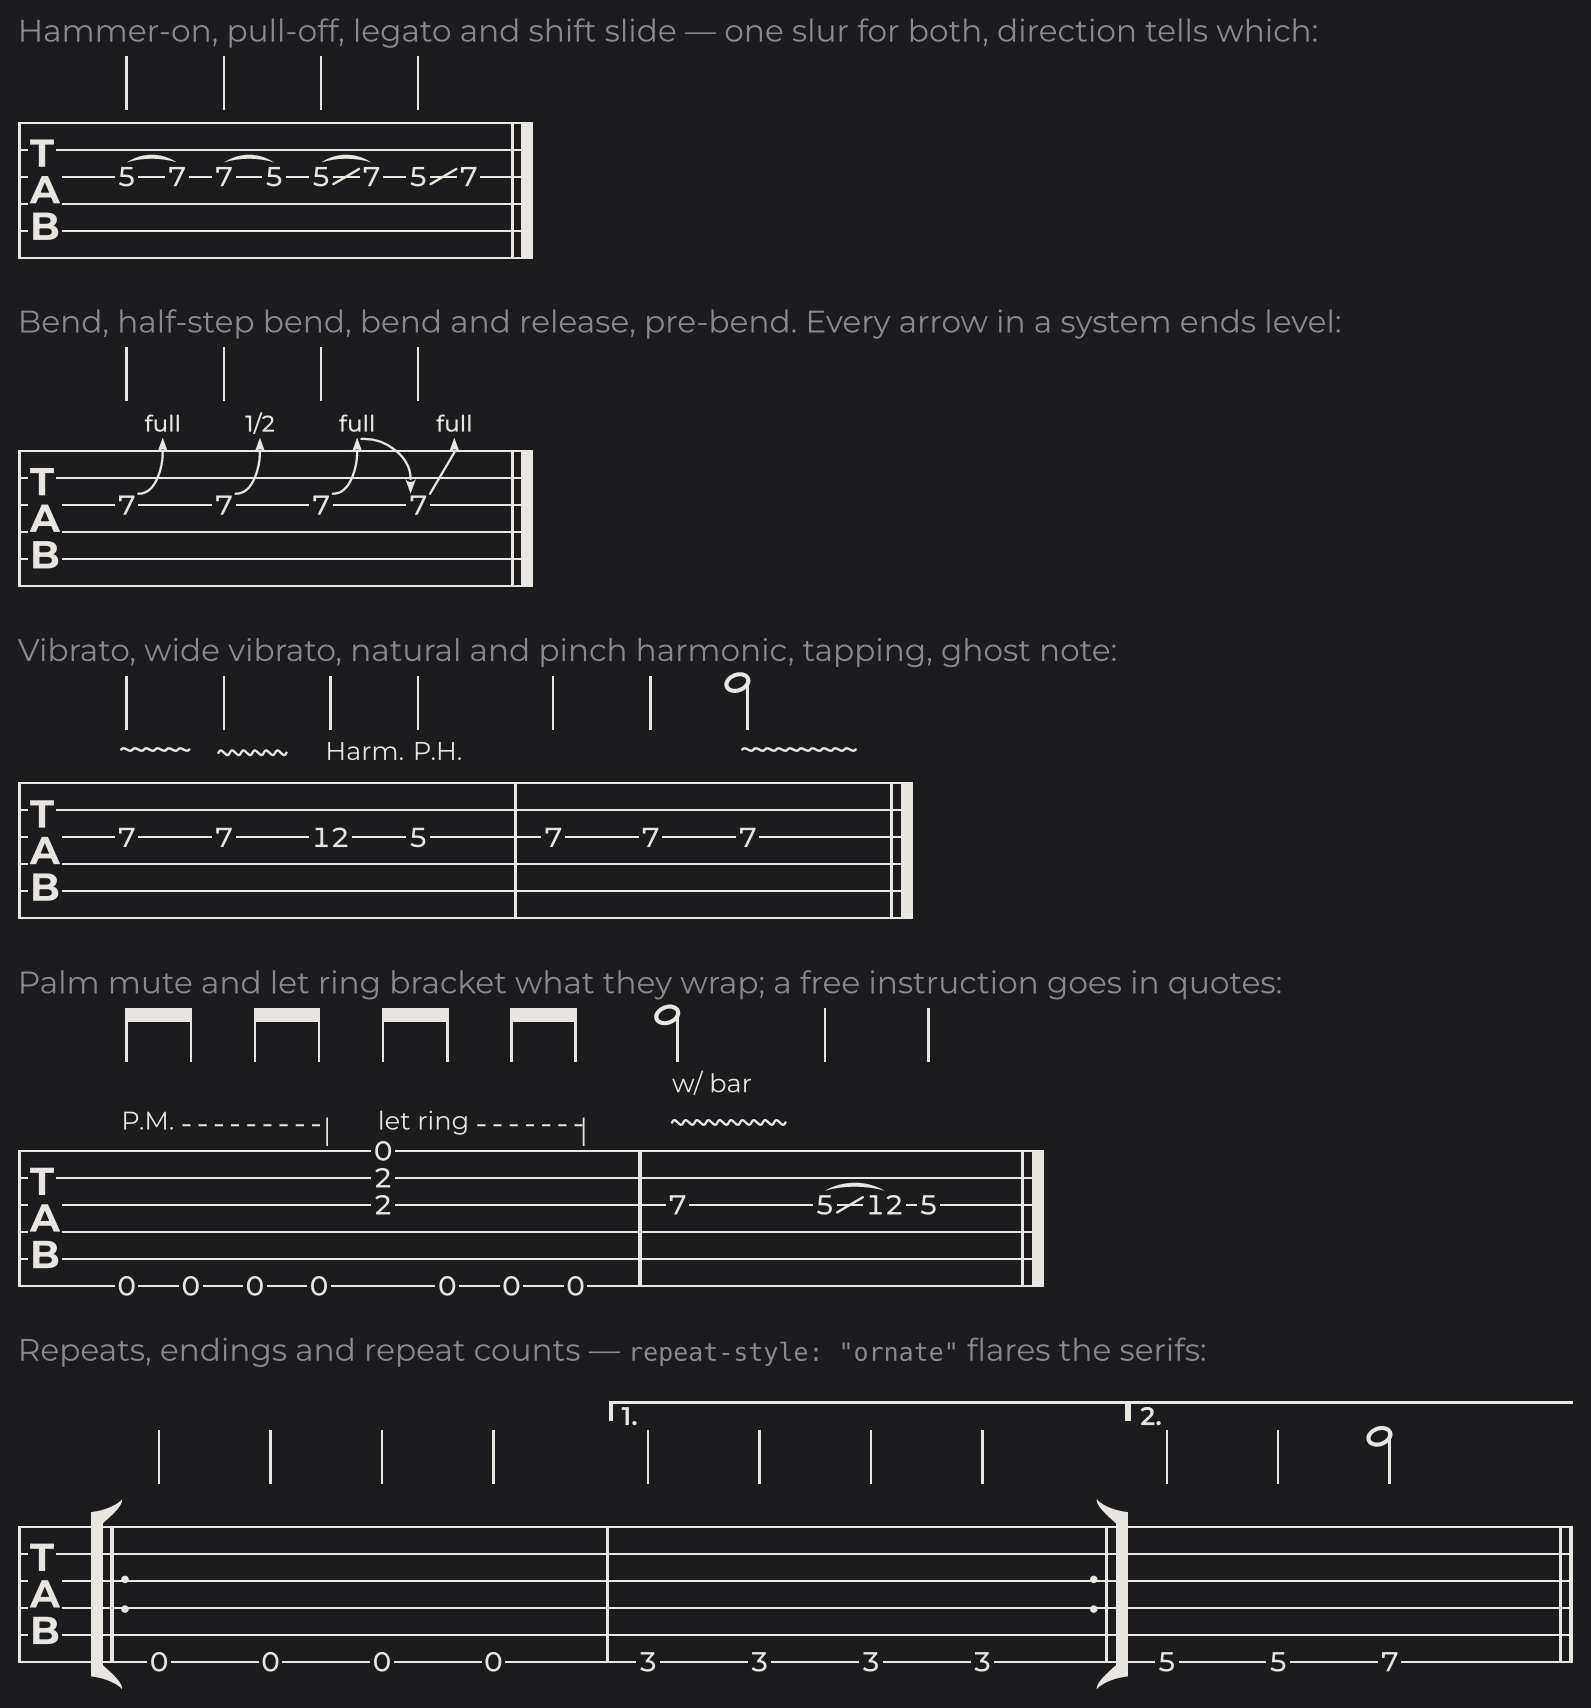
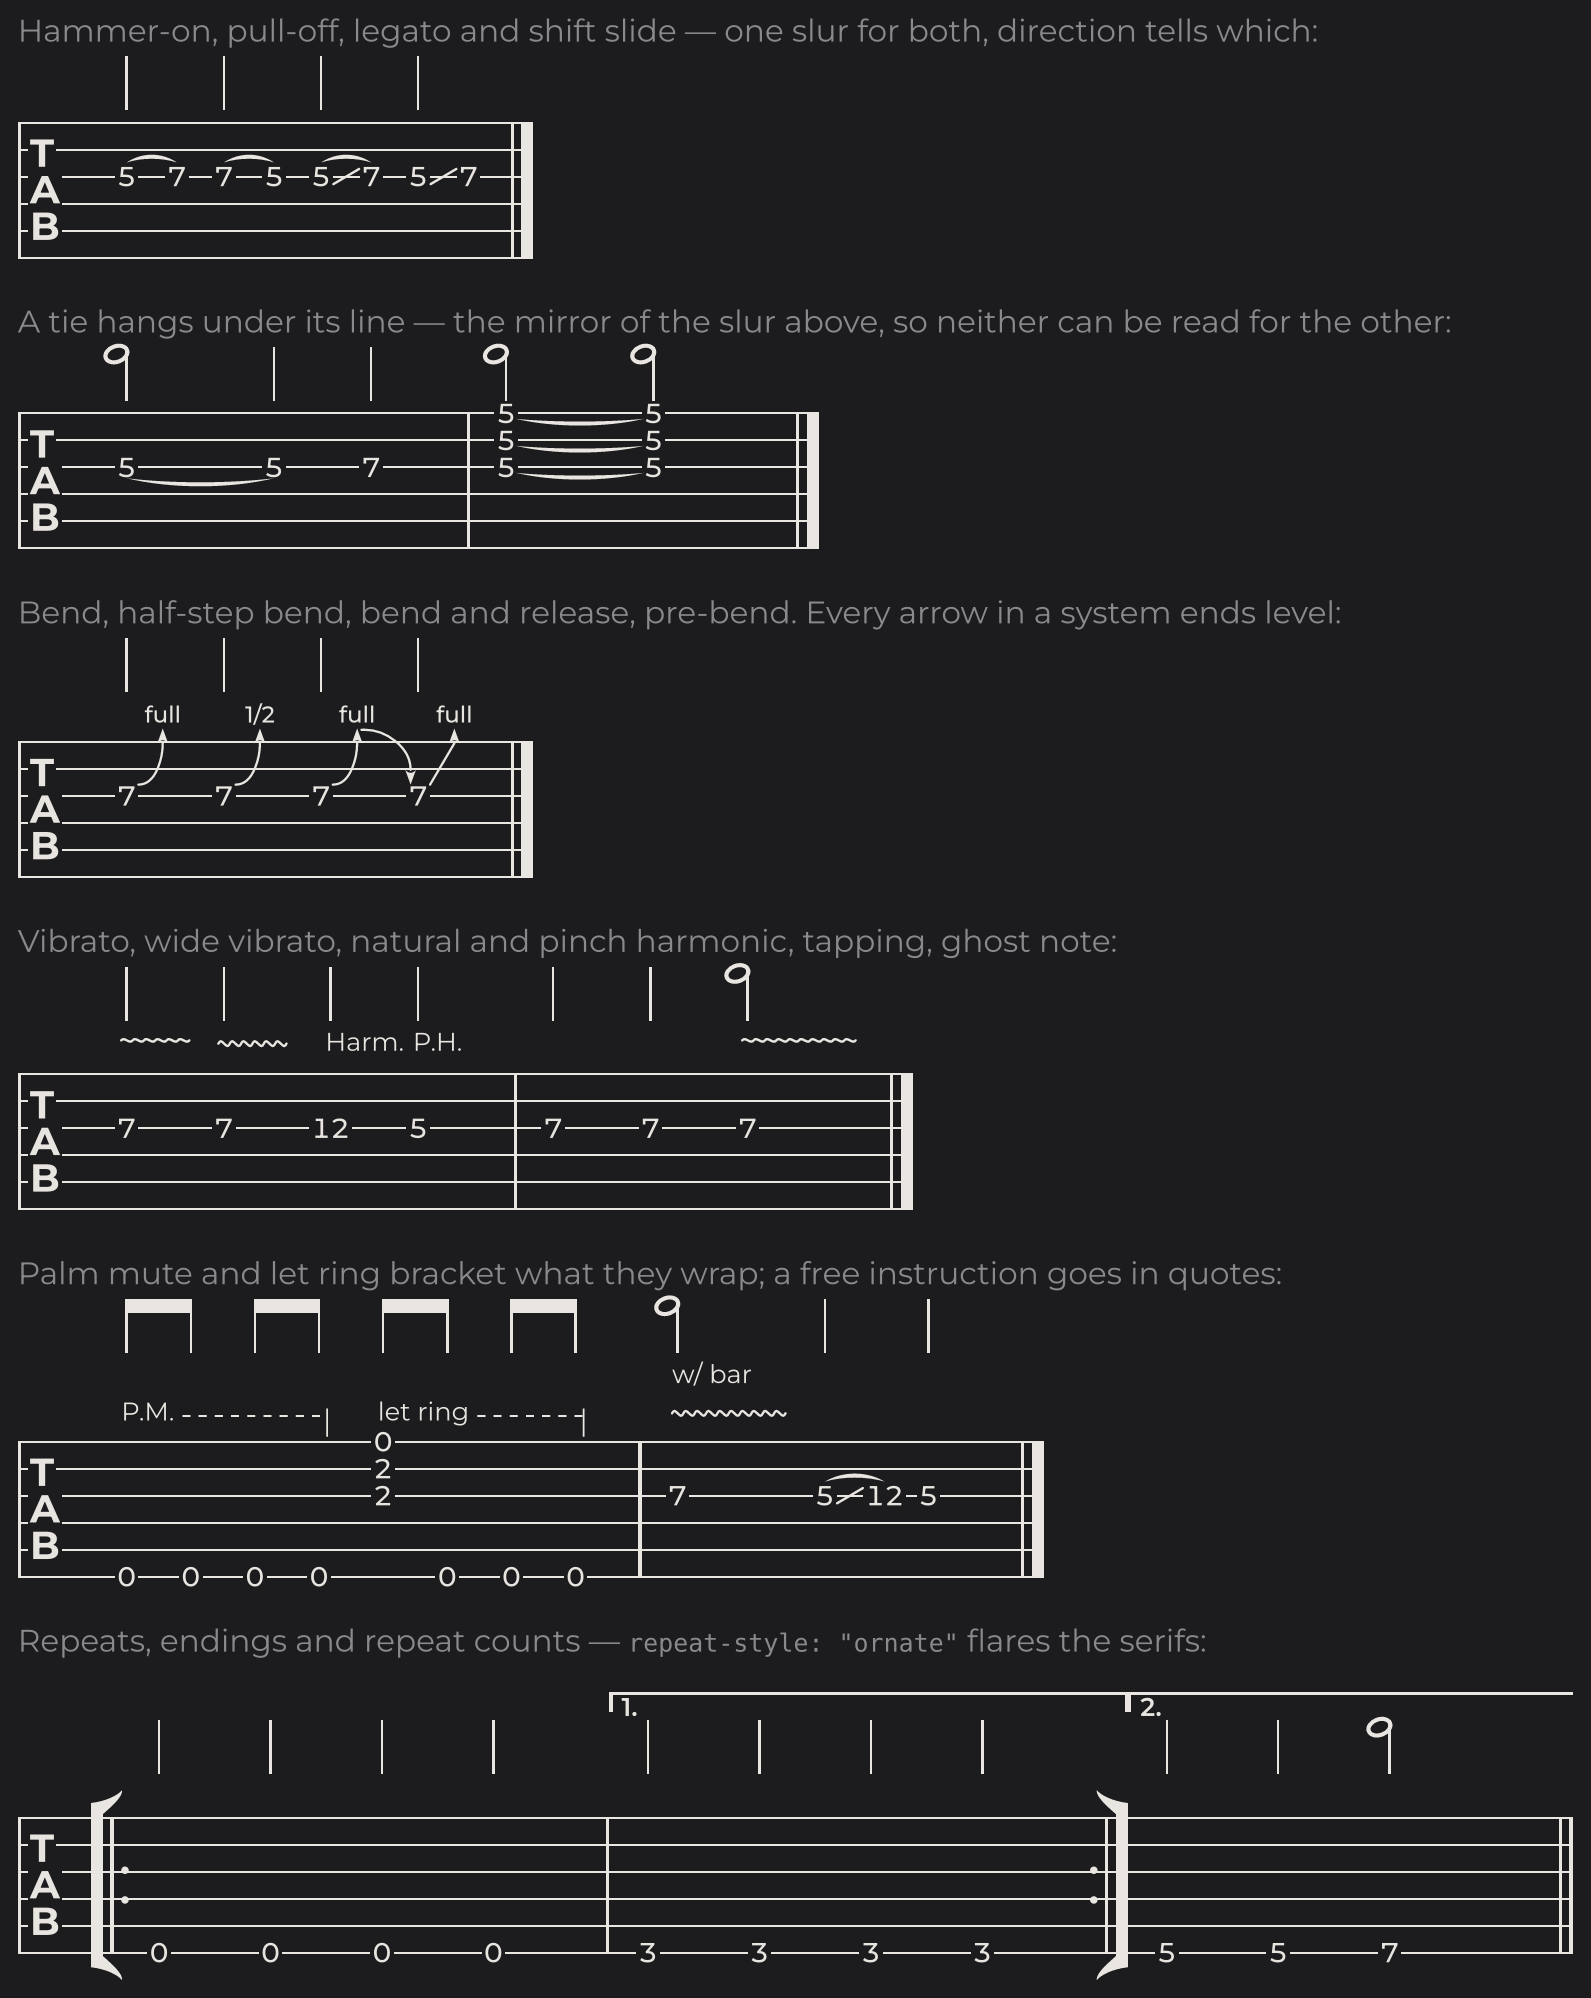
Hang ties under their line instead of arching them over it
Drawn upward a tie was the same mark as a hammer-on's slur, with nothing in the
picture to tell the reader which was meant. Hal Leonard never faces this — it
draws no tie arcs in tablature at all, leaving them to the notation staff and
setting the held tab number in parentheses — which is not open to a package with
no staff to put them on. Songsterr, which also renders tablature alone, flips
the tie; its geometry is what this follows.

Ties stay shallow so they keep inside their own string's space, and a chord's
tie leaves the numbers' flanks, since under a stacked number the next string is
right there. The reserved height moves with them: nothing above any more, and
below only for a tie on the lowest string, which leaves the staff.

diff --git a/SPEC.md b/SPEC.md
@@ -372,6 +372,16 @@ Looking good is a stated goal, so it is specified as testable requirements.
    attaches at the digit's upper part rather than level with its middle: level
    with the line, the arc and the line enclose a sliver and read as one closed
    shape.
+
+   **A tie hangs under its line and curves down**, mirroring the slur. Drawn
+   upward it is the same mark as a hammer-on's slur, and nothing in the picture
+   tells the reader which is meant. Hal Leonard never faces this, because it
+   draws no tie arcs in tablature at all — the held note is simply not struck
+   again, or is set in parentheses, with the tie left to the notation staff — so
+   the reference here is Songsterr, which renders tablature alone and flips the
+   tie. Ties stay shallow, inside their own string's space, since the line below
+   is close; a chord's tie leaves the flanks, shallower still, because under a
+   stacked number the next string is right there.
 10. **A bracketed span is closed by a tick that crosses its rule**, not one that
    merely hangs off it, and the dashed rule meets its label near the baseline
    rather than at the cap. Dash and gap are each about 0.3 staff spaces.
